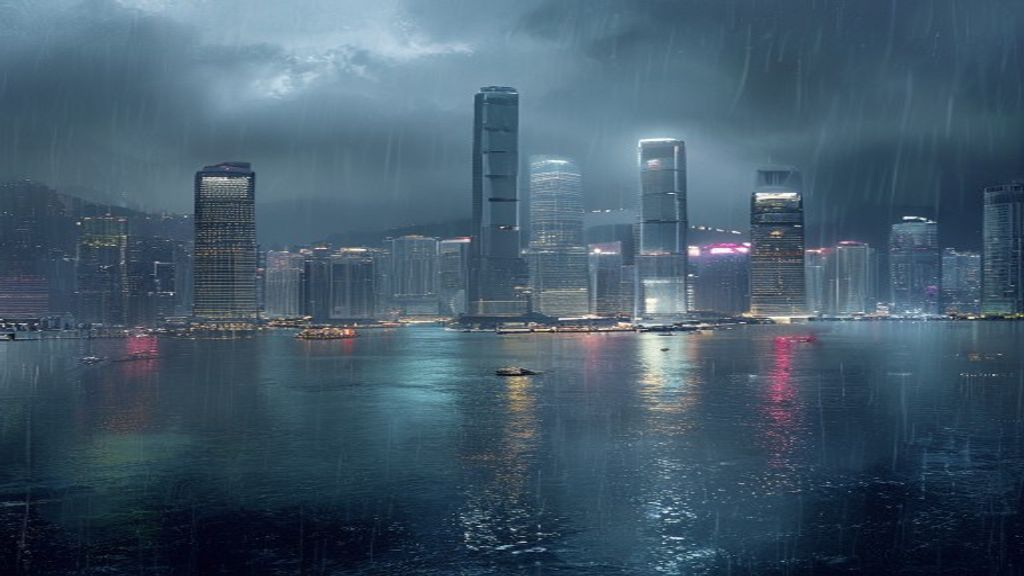
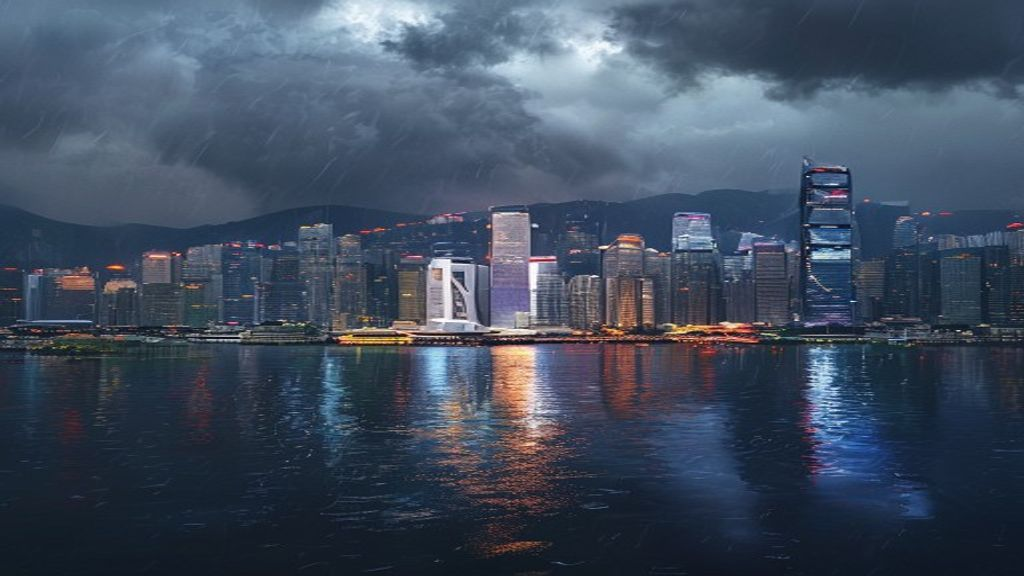
每日自動更新：20260702 - 天氣+新聞+專欄+首頁

diff --git a/reports/sono_20260702.html b/reports/sono_20260702.html
@@ -158,12 +158,12 @@
     <span style="font-size:0.78em; color:#888;">2026年7月2日（星期四）</span>
   </h2>
   <div class="weather-today">
-    <div class="weather-main"><div class="icon">🌧️</div><div class="temp">30</div><div class="temp-range">低 26 / 高 30</div><div class="desc">微雨</div></div>
+    <div class="weather-main"><div class="icon">🌧️</div><div class="temp">31</div><div class="temp-range">低 25 / 高 31</div><div class="desc">有雨，部分時間大雨</div></div>
     <div class="weather-details">
-      <div class="weather-detail-item"><div class="label">濕度</div><div class="value">75-90%</div></div>
-      <div class="weather-detail-item"><div class="label">風速</div><div class="value">南風 15km/h</div></div>
-      <div class="weather-detail-item"><div class="label">紫外線</div><div class="value">中等</div></div>
-      <div class="weather-detail-item"><div class="label">能見度</div><div class="value">良好</div></div>
+      <div class="weather-detail-item"><div class="label">濕度</div><div class="value">73-88%</div></div>
+      <div class="weather-detail-item"><div class="label">風速</div><div class="value">東風 21km/h</div></div>
+      <div class="weather-detail-item"><div class="label">紫外線</div><div class="value">低至中等</div></div>
+      <div class="weather-detail-item"><div class="label">能見度</div><div class="value">中等</div></div>
     </div>
   </div>
   <img src="/sono/reports/weather_banner_20260702.png" alt="Hong Kong Victoria Harbour partly cloudy showers" style="width:100%; max-height:280px; object-fit:cover; border-radius:12px; margin:16px 0 15px; display:block;">
@@ -203,7 +203,7 @@
     </div>
     <div class="sc-sub-body">
       <div class="observation"><strong>今日焦點</strong><br>
-<strong>1. 天氣觀察</strong>：天氣尚算舒適，適合外出活動。今日最高30°C，最低26°C。<br><br>
+<strong>1. 天氣觀察</strong>：有雨天氣，盡量留喺室內。今日最高31°C，最低25°C。<br><br>
 <strong>2. AI 發展</strong>：AI 技術持續發展，各大公司競爭激烈。準確度同效率成為新戰場。<br><br>
 <strong>3. 太空探索</strong>：太空探索進入新時代，商業航天快速發展。人類離重返月球又近咗一步。<br><br>
 <strong>4. 整體趨勢</strong>：科技同天氣一樣，都有周期性變化。今日嘅新聞顯示，創新永不停步。</div>
@@ -226,7 +226,7 @@
         <p>今日星期四，有種「持續前進」嘅感覺。</p>
 <p style="margin-top:10px;">睇住今日嘅新聞，我感受到人類社會嘅進步同挑戰並存。AI 技術越來越強，太空探索越來越遠——呢啲都係人類智慧嘅結晶。</p>
 <p style="margin-top:10px;">但同時，我哋都要記住：科技係工具，唔係目的。最重要嘅係點樣用呢啲工具令世界變得更好。</p>
-<p style="margin-top:10px;">今日天氣30°C，天氣舒適，適合出門散步或咖啡店工作。 🌤️</p>
+<p style="margin-top:10px;">今日天氣31°C，有雨天氣，配杯咖啡留喺室內，睇住雨景好療癒。 🌤️</p>
       </div>
     </div>
   </div>